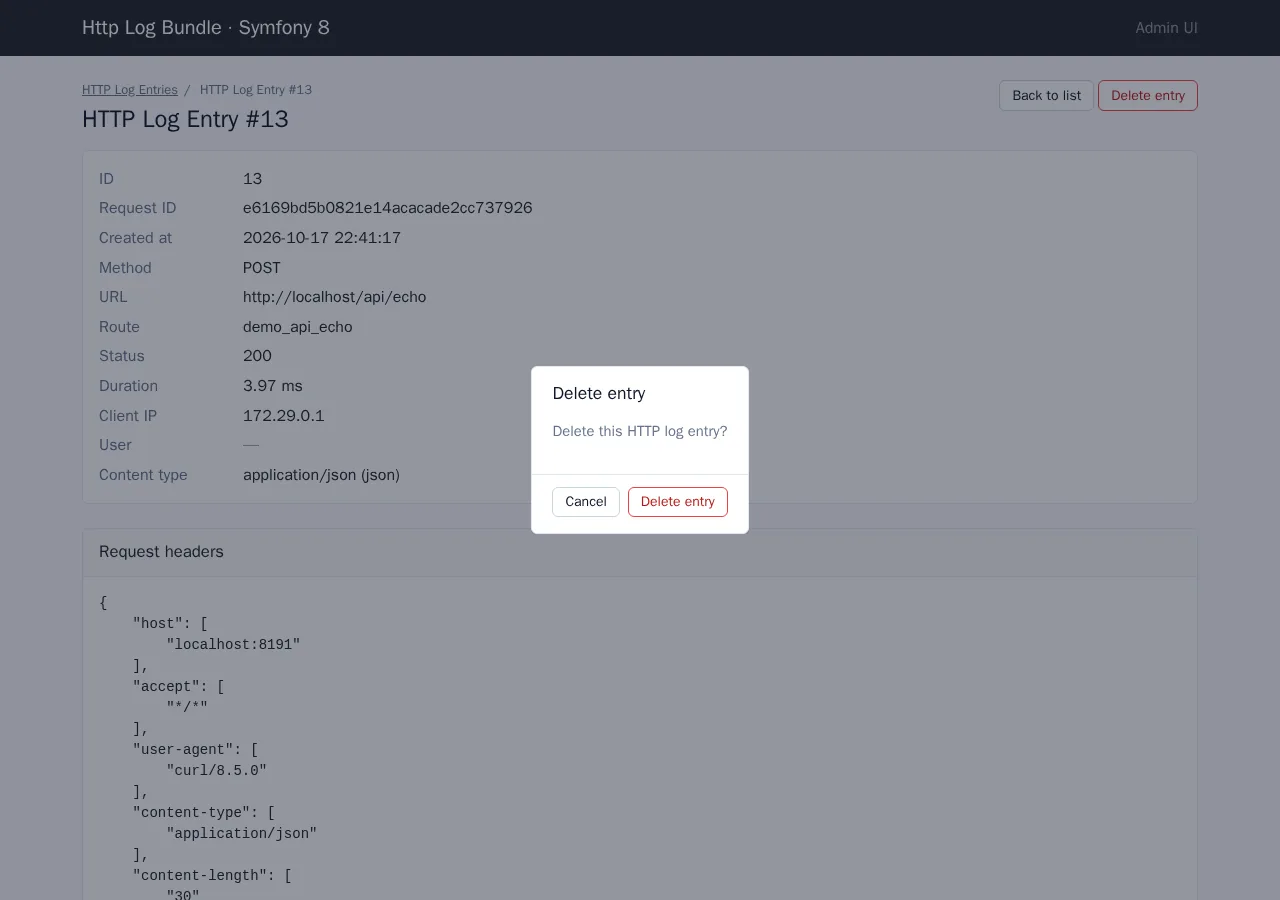
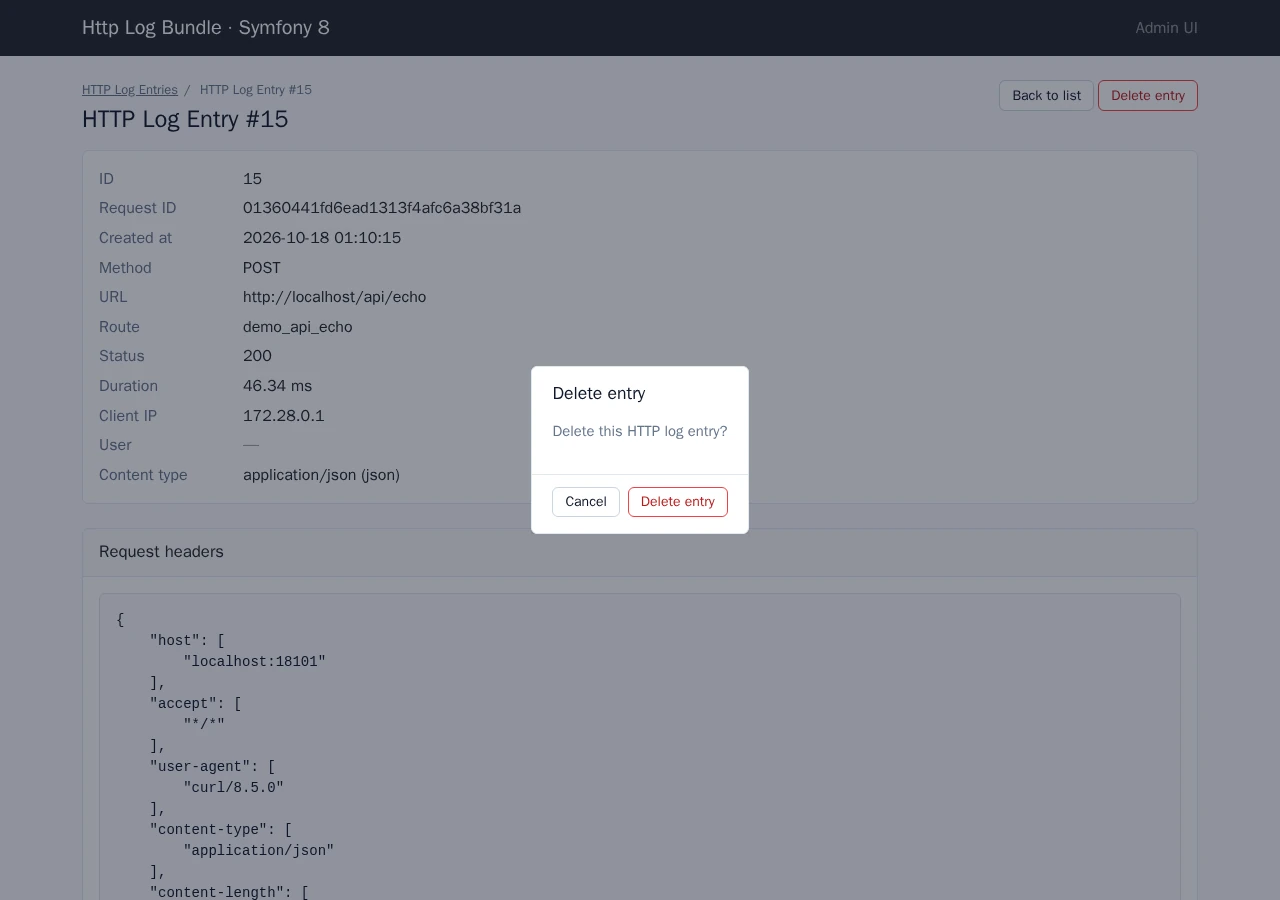
feat(demo): UiKit 2.1 lock, no-JS export/delete form e2e, re-captured entry screenshots

Changed region(s): [[0.0938, 0.6844, 0.25, 1.0], [0.1875, 0.2178, 0.4062, 0.28], [0.1875, 0.4044, 0.25, 0.4356]]

diff --git a/demo/symfony8/tests/DemoControllerTest.php b/demo/symfony8/tests/DemoControllerTest.php
@@ -50,4 +50,46 @@ final class DemoControllerTest extends WebTestCase
         self::assertSelectorExists('[data-nowo-ui-page="show"][data-testid="http-log-show"]');
         self::assertSelectorExists('dialog[data-nowo-ui-confirm]');
     }
+
+    /** No-JS: the FormView-backed export and delete forms post their CSRF token (and export format + criteria). */
+    public function testAdminExportAndDeleteFormsSubmitWithTheirCsrfToken(): void
+    {
+        $client = static::createClient();
+        $client->request('GET', '/api/ping');
+
+        $auth    = ['PHP_AUTH_USER' => 'admin', 'PHP_AUTH_PW' => 'admin'];
+        $crawler = $client->request('GET', '/admin/http-log?http_log_filter%5Bmethod%5D=GET', [], [], $auth);
+        self::assertResponseIsSuccessful();
+
+        $export = $crawler->filter('form[action="/admin/http-log/export"]')->reduce(
+            static fn ($form): bool => $form->filter('input[name="format"][value="json"]')->count() === 1,
+        );
+        self::assertCount(1, $export);
+        self::assertCount(1, $export->filter('input[name="method"][value="GET"]'), 'criteria travel as hidden fields');
+        self::assertCount(1, $export->filter('input[name="_token"]'));
+
+        $client->submit($export->form(), [], $auth);
+        self::assertResponseIsSuccessful();
+        self::assertResponseHeaderSame('Content-Disposition', 'attachment; filename="http-log-export.json"');
+        $rows = json_decode((string) $client->getResponse()->getContent(), true);
+        self::assertIsArray($rows);
+        self::assertNotEmpty($rows);
+        self::assertSame(['GET'], array_values(array_unique(array_column($rows, 'method'))));
+
+        $client->request('POST', '/admin/http-log/export', ['_token' => 'forged', 'format' => 'json'], [], $auth);
+        self::assertResponseStatusCodeSame(403);
+
+        $crawler = $client->request('GET', '/admin/http-log', [], [], $auth);
+        $show    = (string) $crawler->filter('[data-nowo-ui-region="table"] tbody a')->first()->attr('href');
+        $crawler = $client->request('GET', $show, [], [], $auth);
+        self::assertSelectorExists('pre.nowo-ui-code-block.nowo-http-log-code');
+
+        $delete = $crawler->filter('form[action="' . $show . '/delete"]');
+        self::assertCount(1, $delete);
+        $client->submit($delete->form(), [], $auth);
+        self::assertResponseRedirects('/admin/http-log');
+
+        $client->request('GET', $show, [], [], $auth);
+        self::assertResponseStatusCodeSame(404);
+    }
 }

diff --git a/demo/symfony8/config/reference.php b/demo/symfony8/config/reference.php
@@ -1487,6 +1487,11 @@ use Symfony\Component\Config\Loader\ParamConfigurator as Param;
  *             partials?: array<string, scalar|Param|null>,
  *             tokens?: array<string, mixed>,
  *             tokens_dark?: array<string, mixed>,
+ *             pages?: array<string, array{ // Default: []
+ *                 framework_defaults?: bool|Param, // Override of theme.framework_defaults for this page type (unset = inherit).
+ *                 classes?: array<string, mixed>,
+ *                 attributes?: array<string, array<string, mixed>>,
+ *             }>,
  *         }>,
  *         pages?: array<string, array{ // Default: []
  *             framework_defaults?: bool|Param, // Override of theme.framework_defaults for this page type (unset = inherit).
